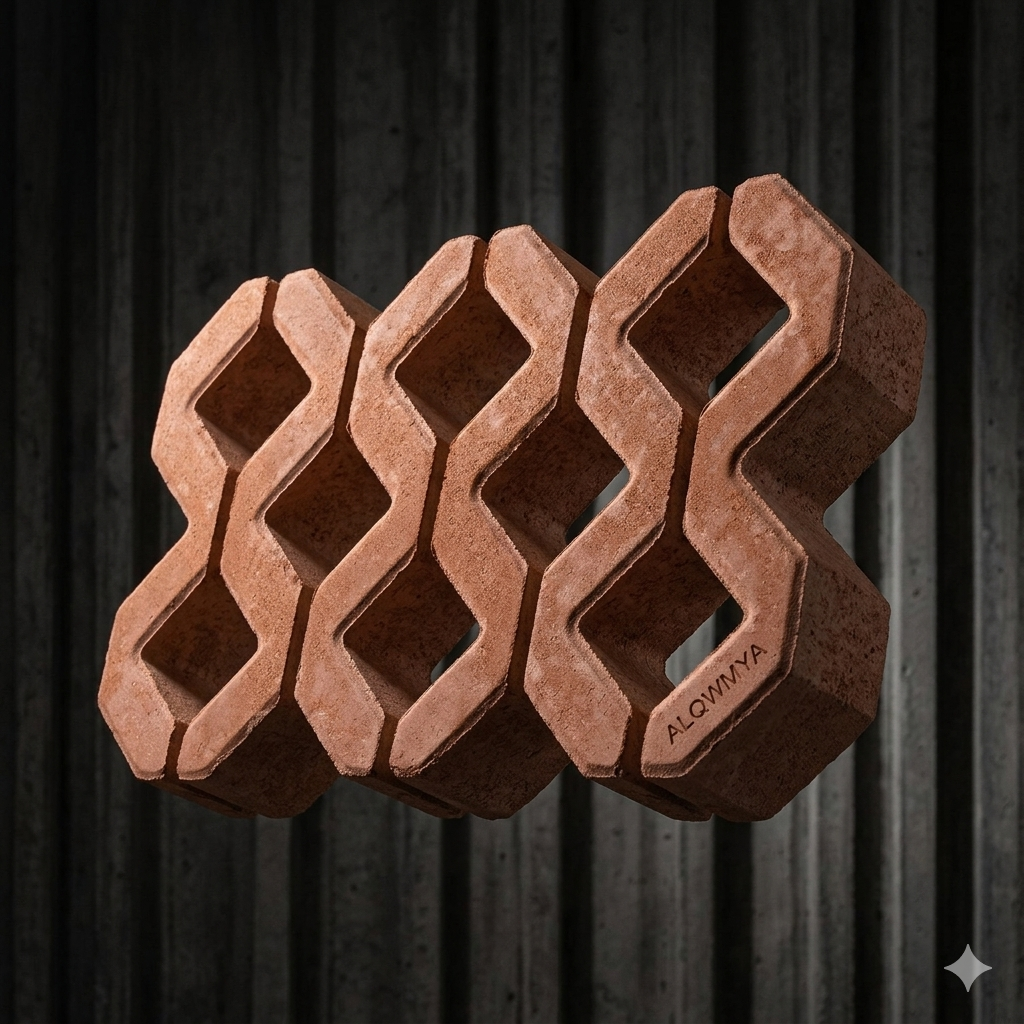
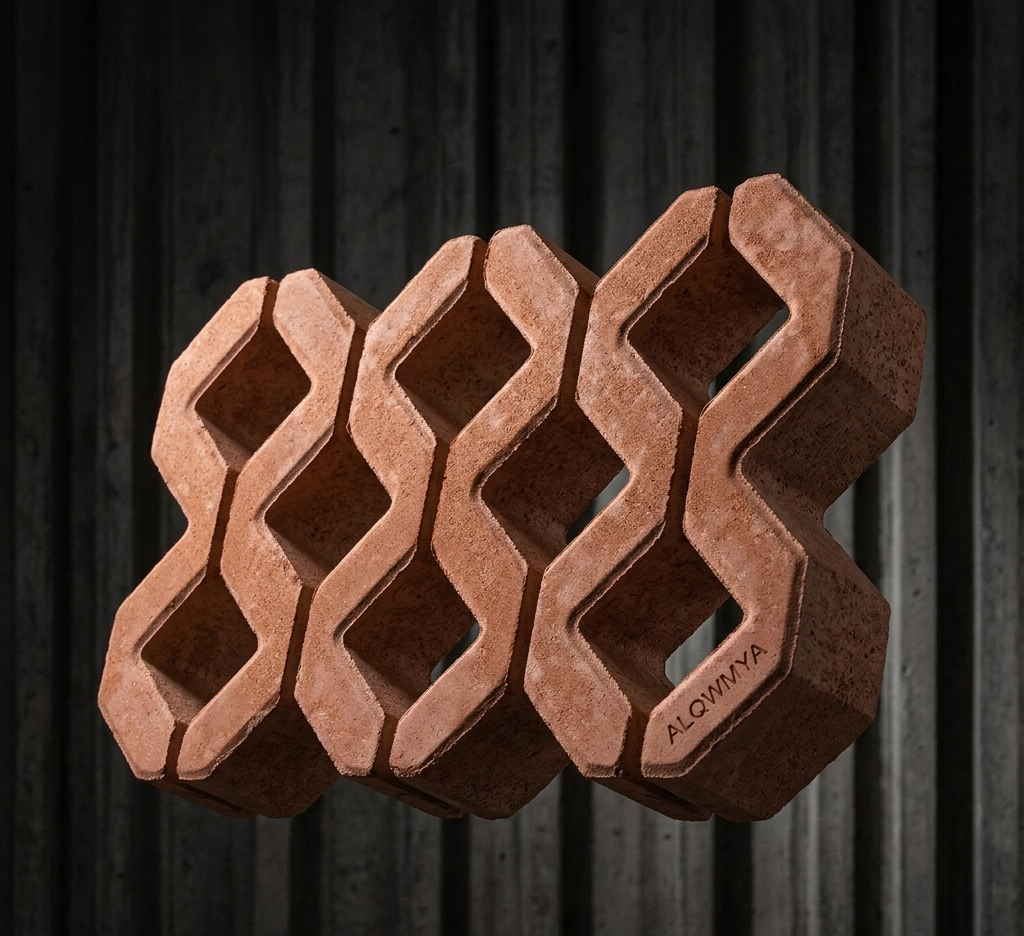
feat: add H-shape interlock after parquet and shorten parquet description

Changed region(s): [[0.0938, 0.1549, 0.9062, 1.0], [0.9062, 0.9295, 0.9688, 0.9605]]

diff --git a/src/data/productsData.js b/src/data/productsData.js
@@ -94,7 +94,7 @@ export const productsData = {
                     '/images/انترلوك باريكة 8 سم اصفر.png',
                     '/images/انترولك باريكة 6سم رمادي.png'
                 ],
-                shortDescription: 'نستخدم احدث الماكينات الاوتوماتيكية الالمانية و التى تتميز بمعدل انتاج و جودة عالية يتم خلط المواد الخام ميكانيكياً الرمل النظيف – سن دلوميت - أكاسيد - إضافات. يتم صبها و كبسها هيدروليكيا باستخدام هزازات ميكانيكية وذلك للحصول على رصف وقوة و متانة عالية. يتم استخدام الوان خاصة فى التصنيع طبقاً لرغبة العميل.',
+                shortDescription: 'إنترلوك باركيه بتصميم كلاسيكي عصري، يتحمل الأوزان ومثالي لممرات المشاة والحدائق.',
                 specs: {
                     length: '20 سم',
                     width: '10 سم',
@@ -107,6 +107,33 @@ export const productsData = {
                     standard: '(BS 6717-1993) (ASTM C 936)',
                     material: 'الرمل النظيف – سن دلوميت - أكاسيد - إضافات',
                     usage: 'ممرات المشاة، الأرصفة الجانبية'
+                }
+            },
+            {
+                id: 'interlock-hshape',
+                name: 'إنترلوك حرف H',
+                image: '/images/انترولك اتش 6 سم رمادي.png',
+                images: [
+                    '/images/انترولك اتش 6 سم رمادي.png',
+                    '/images/اتش 8 سم احمر.png',
+                    '/images/انترولك اتش.jpg',
+                    '/images/انتلروك اتش ناعم.jpg',
+                    '/images/انتلروك اتش.jpg',
+                    '/images/انتلورك اتش.jpg'
+                ],
+                shortDescription: 'إنترلوك حرف H يتميز بقوة تحمل فائقة وتداخل قوي، مثالي للمناطق الصناعية ومحطات الوقود.',
+                specs: {
+                    length: '20 سم',
+                    width: '16.5 سم',
+                    height: '6 سم / 8 سم',
+                    weight: '135 - 175 كجم / م²',
+                    piecesPerM2: '36 قطعة / م²',
+                    strength: '25-55 نيوتن',
+                    absorption: '6%',
+                    areaPerPiece: '280',
+                    standard: '(ASTM C 936) (BS 6717 - 1993)',
+                    material: 'الرمل النظيف – سن دلوميت - أكاسيد - إضافات',
+                    usage: 'المناطق الصناعية، محطات الوقود، الموانئ'
                 }
             },
             {